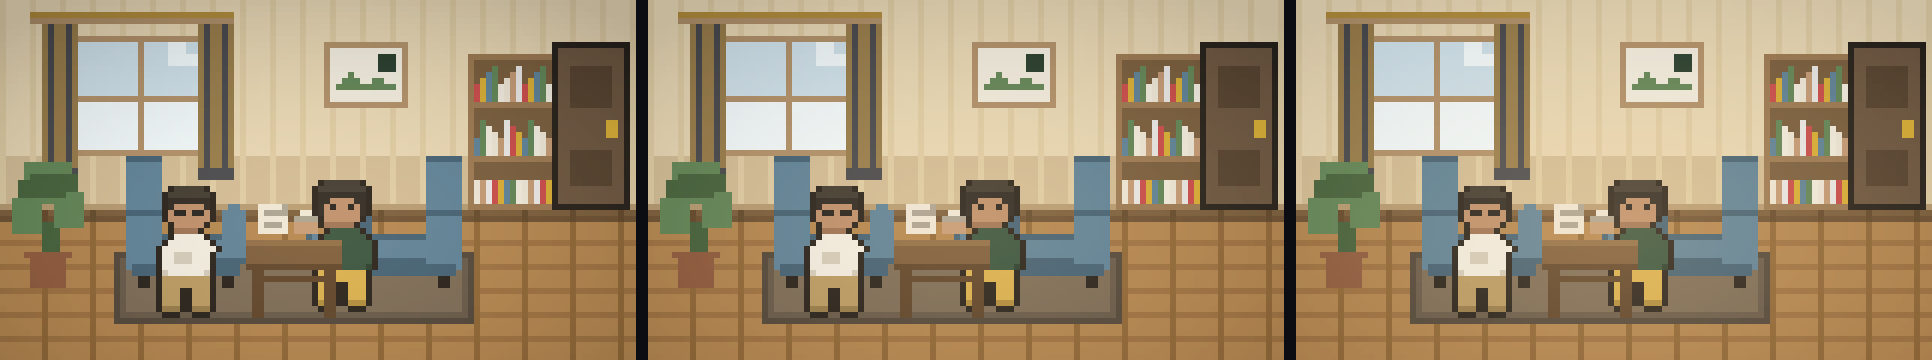
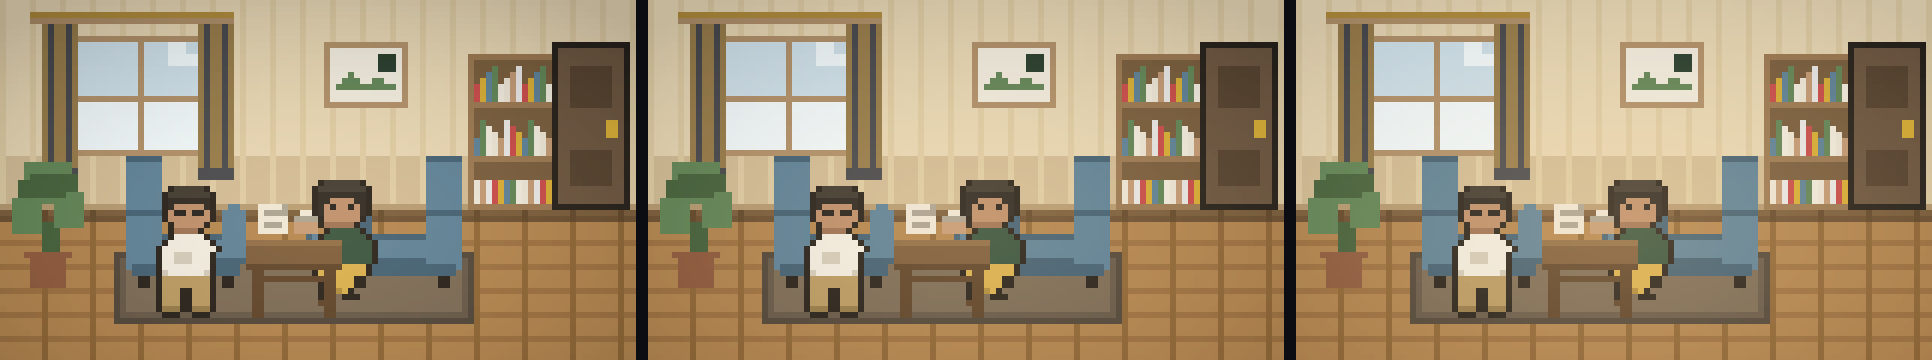
feat(v2-D2): 许予安立绘（双拐 + 下肢矫形支具），立绘层收工
- src/sprites.js：新增 6 个配色（藏青校服 U/W、深灰运动裤 L/l、支具冷灰 K/E），
  新增 XUYUAN_SEATED（12×23，坐姿，右小腿到膝戴支具，绑带用暗面灰分层）
  与 CRUTCH_PAIR（12×22，A 形架双拐，暗色腋托 / 铝色杆 / 棕色握把 / 深色脚垫）
- 双拐不在手上：靠沙发扶手立着（腋托压扶手、脚垫落地）。拄拐站着是「患者」手势，
  坐着把拐放一边才是这个人的常态
- tests/render-sprites.mjs：新增 characters-xu.png（立绘 + 双拐 + 旧立绘对照）、
  room-xu-3-acts.png（三节摆位与暖光）；drawRoom 改为接收 clientArt，出图与游戏同源
- tests/check-game.mjs：新图纳入行宽 / 调色板 / 越界审计（26 个物件 / 59 色）

验收：node tests/run-all.mjs 六步全绿；人眼过 characters-xu.png 与 room-xu-3-acts.png

Changed region(s): [[0.1553, 0.7333, 0.2174, 0.8861], [0.8075, 0.7333, 0.8696, 0.8861], [0.4969, 0.7333, 0.528, 0.8861]]

diff --git a/心理咨询.html b/心理咨询.html
@@ -1452,6 +1452,14 @@ const PAL_EXT = {
   m: '#45474d', // 深灰裤暗面
   I: '#8a6a4f', // 包（旧棕）
 
+  // 许予安（v2 新线）：14 岁，校服藏青 + 深灰运动裤 + 下肢矫形支具。
+  // 藏青是四个角色里唯一的冷色上衣（林越墨绿、周航土黄、陈静砖红），一眼分得开。
+  U: '#37476b', // 藏青校服
+  W: '#2a3752', // 藏青暗面
+  L: '#4a4a52', // 深灰运动裤
+  l: '#3a3a41', // 深灰运动裤暗面
+  K: '#c9c6bd', // 支具（医用塑料，冷灰）
+  E: '#9a968b', // 支具暗面 / 绑带
 };
 
 // 轮椅（14 × 17）：大轮 + 小前轮 + 脚踏 + 推手。
@@ -1624,6 +1632,85 @@ const LINYUE_SEATED = [
   '  DDD DDD   ',
 ];
 
+// 许予安（v2 唯一一条线）：14 岁，初二，车祸后遗留下肢功能障碍。
+// 右侧小腿戴矫形支具（从膝到踝），平时拄双拐；短距离能自己走。
+// 表情按规格写死成「警惕和忍耐」，不是悲伤：眼睛是平视的，嘴角不往下掉。
+// 骨架沿用（头 10 px、四肢短粗），换发型（短、露出耳朵，与林越的厚发帘分开）、
+// 换配色（藏青校服 + 深灰运动裤），坐姿与咨询师同一套（大腿平、小腿垂到地面）。
+const XUYUAN_SEATED = [
+  '  DYYYYYYD  ',
+  ' DYYYYYYYYD ',
+  ' DHHHHHHHHD ',
+  ' DHZZZZZZHD ',
+  ' DZXZZZZXZD ',
+  ' DZZZZZZZZD ',
+  '  DZZZZZZD  ',
+  '  DzzzzD    ',
+  '   DUUUUD   ',
+  '  DUUUUUUD  ',
+  ' DUUUUUUUUD ',
+  ' DUUwUUUUUD ',
+  ' DUUUUUUUUD ',
+  ' DUuUUUUuUD ',
+  ' DUUUUUUUUD ',
+  ' DLLLLLLLLD ',
+  ' DLLLLLLLLD ',
+  '  DKKD LLD  ',
+  '  DKED LLD  ',
+  '  DKKD LLD  ',
+  '  DKED LLD  ',
+  '  DKKD LLD  ',
+  '  DDDD DDD  ',
+];
+
+// 双拐（12 × 22）：靠沙发扶手立着，不在手上。
+// 拄着拐站着是「患者」的手势，坐着把拐放在一边才是这个人的常态。
+// 深色腋托 / 铝色杆 / 棕色握把 / 深色脚垫；两根略呈外八字，读起来是一对而不是两根竿。
+const CRUTCH_PAIR = [
+  ' DDD   DDD  ',
+  'DkkkD DkkkD ',
+  ' kkk   kkk  ',
+  ' k k   k k  ',
+  ' k k   k k  ',
+  ' k k   k k  ',
+  ' k k   k k  ',
+  ' k k   k k  ',
+  '  kk    kk  ',
+  '  kk    kk  ',
+  '  kkk   kkk ',
+  '  kkk   kkk ',
+  '  kk    kk  ',
+  '  kk    kk  ',
+  '  kk    kk  ',
+  '  kk    kk  ',
+  '  kk    kk  ',
+  '  kk    kk  ',
+  '  kk    kk  ',
+  '  XX    XX  ',
+  '  XX    XX  ',
+  '  XX    XX  ',
+  ' DDD  DDD   ',
+  '  kk    kk  ',
+  '  kk    kk  ',
+  '  kk    kk  ',
+  '  kk    kk  ',
+  '  kk    kk  ',
+  '  kk    kk  ',
+  '  kk    kk  ',
+  '  kk    kk  ',
+  '  kkk   kkk ',
+  '  kkk   kkk ',
+  '  kk    kk  ',
+  '  kk    kk  ',
+  '  kk   kk   ',
+  '  kk   kk   ',
+  '  kk   kk   ',
+  '  kk   kk   ',
+  '  kk   kk   ',
+  '  XX   XX   ',
+  '  XX   XX   ',
+  '  XX   XX   ',
+];
 const COUNSELOR = [
   '   DYYYYYD  ',
   '  DYYYYYYYD ',
@@ -1758,6 +1845,8 @@ XLZX.REFERRAL = REFERRAL;
 XLZX.TISSUE = TISSUE;
 XLZX.LINYUE = LINYUE;
 XLZX.LINYUE_SEATED = LINYUE_SEATED;
+XLZX.XUYUAN_SEATED = XUYUAN_SEATED;
+XLZX.CRUTCH_PAIR = CRUTCH_PAIR;
 XLZX.COUNSELOR = COUNSELOR;
 XLZX.CHARS = CHARS;
 XLZX.CLOCK_VARIANTS = CLOCK_VARIANTS;

diff --git a/src/sprites.js b/src/sprites.js
@@ -36,6 +36,14 @@ const PAL_EXT = {
   m: '#45474d', // 深灰裤暗面
   I: '#8a6a4f', // 包（旧棕）
 
+  // 许予安（v2 新线）：14 岁，校服藏青 + 深灰运动裤 + 下肢矫形支具。
+  // 藏青是四个角色里唯一的冷色上衣（林越墨绿、周航土黄、陈静砖红），一眼分得开。
+  U: '#37476b', // 藏青校服
+  W: '#2a3752', // 藏青暗面
+  L: '#4a4a52', // 深灰运动裤
+  l: '#3a3a41', // 深灰运动裤暗面
+  K: '#c9c6bd', // 支具（医用塑料，冷灰）
+  E: '#9a968b', // 支具暗面 / 绑带
 };
 
 // 轮椅（14 × 17）：大轮 + 小前轮 + 脚踏 + 推手。
@@ -208,6 +216,85 @@ const LINYUE_SEATED = [
   '  DDD DDD   ',
 ];
 
+// 许予安（v2 唯一一条线）：14 岁，初二，车祸后遗留下肢功能障碍。
+// 右侧小腿戴矫形支具（从膝到踝），平时拄双拐；短距离能自己走。
+// 表情按规格写死成「警惕和忍耐」，不是悲伤：眼睛是平视的，嘴角不往下掉。
+// 骨架沿用（头 10 px、四肢短粗），换发型（短、露出耳朵，与林越的厚发帘分开）、
+// 换配色（藏青校服 + 深灰运动裤），坐姿与咨询师同一套（大腿平、小腿垂到地面）。
+const XUYUAN_SEATED = [
+  '  DYYYYYYD  ',
+  ' DYYYYYYYYD ',
+  ' DHHHHHHHHD ',
+  ' DHZZZZZZHD ',
+  ' DZXZZZZXZD ',
+  ' DZZZZZZZZD ',
+  '  DZZZZZZD  ',
+  '  DzzzzD    ',
+  '   DUUUUD   ',
+  '  DUUUUUUD  ',
+  ' DUUUUUUUUD ',
+  ' DUUwUUUUUD ',
+  ' DUUUUUUUUD ',
+  ' DUuUUUUuUD ',
+  ' DUUUUUUUUD ',
+  ' DLLLLLLLLD ',
+  ' DLLLLLLLLD ',
+  '  DKKD LLD  ',
+  '  DKED LLD  ',
+  '  DKKD LLD  ',
+  '  DKED LLD  ',
+  '  DKKD LLD  ',
+  '  DDDD DDD  ',
+];
+
+// 双拐（12 × 22）：靠沙发扶手立着，不在手上。
+// 拄着拐站着是「患者」的手势，坐着把拐放在一边才是这个人的常态。
+// 深色腋托 / 铝色杆 / 棕色握把 / 深色脚垫；两根略呈外八字，读起来是一对而不是两根竿。
+const CRUTCH_PAIR = [
+  ' DDD   DDD  ',
+  'DkkkD DkkkD ',
+  ' kkk   kkk  ',
+  ' k k   k k  ',
+  ' k k   k k  ',
+  ' k k   k k  ',
+  ' k k   k k  ',
+  ' k k   k k  ',
+  '  kk    kk  ',
+  '  kk    kk  ',
+  '  kkk   kkk ',
+  '  kkk   kkk ',
+  '  kk    kk  ',
+  '  kk    kk  ',
+  '  kk    kk  ',
+  '  kk    kk  ',
+  '  kk    kk  ',
+  '  kk    kk  ',
+  '  kk    kk  ',
+  '  XX    XX  ',
+  '  XX    XX  ',
+  '  XX    XX  ',
+  ' DDD  DDD   ',
+  '  kk    kk  ',
+  '  kk    kk  ',
+  '  kk    kk  ',
+  '  kk    kk  ',
+  '  kk    kk  ',
+  '  kk    kk  ',
+  '  kk    kk  ',
+  '  kk    kk  ',
+  '  kkk   kkk ',
+  '  kkk   kkk ',
+  '  kk    kk  ',
+  '  kk    kk  ',
+  '  kk   kk   ',
+  '  kk   kk   ',
+  '  kk   kk   ',
+  '  kk   kk   ',
+  '  kk   kk   ',
+  '  XX   XX   ',
+  '  XX   XX   ',
+  '  XX   XX   ',
+];
 const COUNSELOR = [
   '   DYYYYYD  ',
   '  DYYYYYYYD ',
@@ -342,6 +429,8 @@ XLZX.REFERRAL = REFERRAL;
 XLZX.TISSUE = TISSUE;
 XLZX.LINYUE = LINYUE;
 XLZX.LINYUE_SEATED = LINYUE_SEATED;
+XLZX.XUYUAN_SEATED = XUYUAN_SEATED;
+XLZX.CRUTCH_PAIR = CRUTCH_PAIR;
 XLZX.COUNSELOR = COUNSELOR;
 XLZX.CHARS = CHARS;
 XLZX.CLOCK_VARIANTS = CLOCK_VARIANTS;
